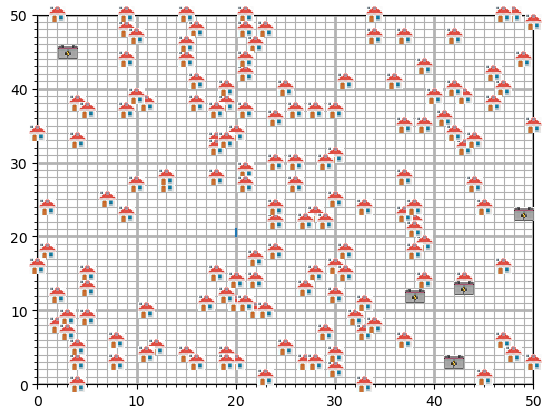
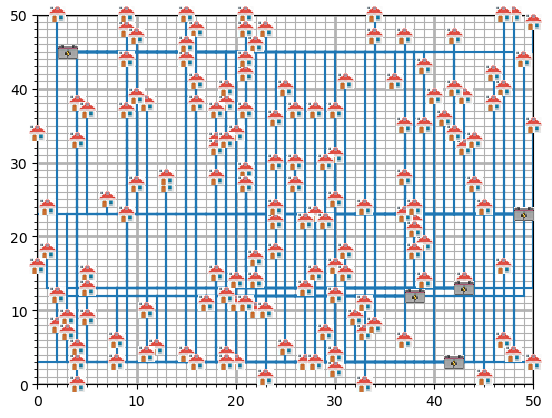
Kabels worden nu in load_objects gelegd, en kabels worden in grid getekend

Changed region(s): [[0.0616, 0.0622, 0.9547, 0.9019], [0.0616, 0.8086, 0.1232, 0.8708], [0.7083, 0.7464, 0.7391, 0.7775]]

diff --git a/app/Main.py b/app/Main.py
@@ -35,8 +35,6 @@ def find_battery(batterijen, huis):
         # distance_y = int(batterij.get_locatie()[1]) - int(huis.get_locatie()[1])
         # distance_x = int(batterij.get_locatie()[0]) - int(huis.get_locatie()[0])
 
-
-
 #Todo: Let op x en y van andere batterijen, no crossing
 def lay_cable(huis, batterij):
 
@@ -72,8 +70,9 @@ def draw(wijk):
     # Laadt alle objecten in de wijk
     objects = load_objects(wijk)
 
-    # # Leg alle kabels tussen huizen en batterijen
-    # lay_cables(objects)
+    # Stop huizen en batterijen in variabelen
+    huizen = objects["huizen"]
+    batterijen = objects["batterijen"]
 
     # Creer een figure en daarin een plot
     fig = plt.figure()
@@ -93,14 +92,10 @@ def draw(wijk):
     ax.grid(which='major', alpha=10, linewidth=2)
     ax.grid(which='minor', alpha=1)
 
-    # https://stackoverflow.com/questions/36470343/how-to-draw-a-line-with-matplotlib
-    x1, y1 = [20, 20], [21, 20]
-    ax.add_line(mlines.Line2D(x1, y1))
-
     # https://www.science-emergence.com/Articles/How-to-insert-an-image-a-picture-or-a-photo-in-a-matplotlib-figure/
     # https://gist.github.com/ppizarror/a36d214fd38a029cb80b7363bb133023
     # Fotos toevoegen
-    for huis in objects['huizen']:
+    for huis in huizen:
         huis_x = int(huis.get_locatie()[0])
         huis_y = int(huis.get_locatie()[1])
 
@@ -109,7 +104,23 @@ def draw(wijk):
         addition_photo = AnnotationBbox(imagebox, (huis_x, huis_y), frameon=False)
         ax.add_artist(addition_photo)
 
-    for batterij in objects['batterijen']:
+        kabels = huis.get_kabels()
+        for index, kabel in enumerate(kabels):
+            try:
+                # https://stackoverflow.com/questions/36470343/how-to-draw-a-line-with-matplotlib
+                #           x1, x2    y1, y2
+                # x1, y1 = [20, 20], [21, 20]
+                # x2, y2 = [22, 20], [21, 20]
+
+                kabel1, kabel2 = list(kabel), list(kabels[index + 1])
+                x1, y1 = [kabel1[0], kabel2[0]], [kabel1[1], kabel2[1]]
+
+                ax.add_line(mlines.Line2D(x1, y1))
+
+            except IndexError:
+                pass
+
+    for batterij in batterijen:
         batterij_x = int(batterij.get_locatie()[0])
         batterij_y = int(batterij.get_locatie()[1])
 
@@ -130,7 +141,6 @@ def load_objects(wijk):
 
     huizen_wijk = open(f'../data/wijk{wijk}_huizen.csv')
     batterijen_wijk = open(f'../data/wijk{wijk}_batterijen.csv')
-
     reader = csv.reader(huizen_wijk)
 
     # Skip eerste regel
@@ -142,7 +152,6 @@ def load_objects(wijk):
         objects["huizen"].append(huis)
 
     huizen_wijk.close()
-
     reader = csv.reader(batterijen_wijk)
 
     # Skip eerste regel
@@ -154,6 +163,16 @@ def load_objects(wijk):
         objects["batterijen"].append(batterij)
 
     batterijen_wijk.close()
+
+    # Stop huizen en batterijen in variabelen
+    huizen = objects["huizen"]
+    batterijen = objects["batterijen"]
+
+    # Leg alle kabels tussen huizen en batterijen
+    for huis in huizen:
+        batterij = find_battery(batterijen, huis)
+        lay_cable(huis, batterij)
+        batterij.set_huis(huis)
 
     return objects
 
@@ -171,14 +190,6 @@ def main():
     if wijk not in ['1', '2', '3']:
         print("No such wijk!")
         exit(1)
-
-    objecten = load_objects(wijk)
-    huizen = objecten["huizen"]
-
-    for huis in huizen:
-        batterij = find_battery(objecten["batterijen"], huis)
-        lay_cable(huis, batterij)
-        batterij.set_huis(huis)
 
     # Roep draw aan
     draw(wijk)
